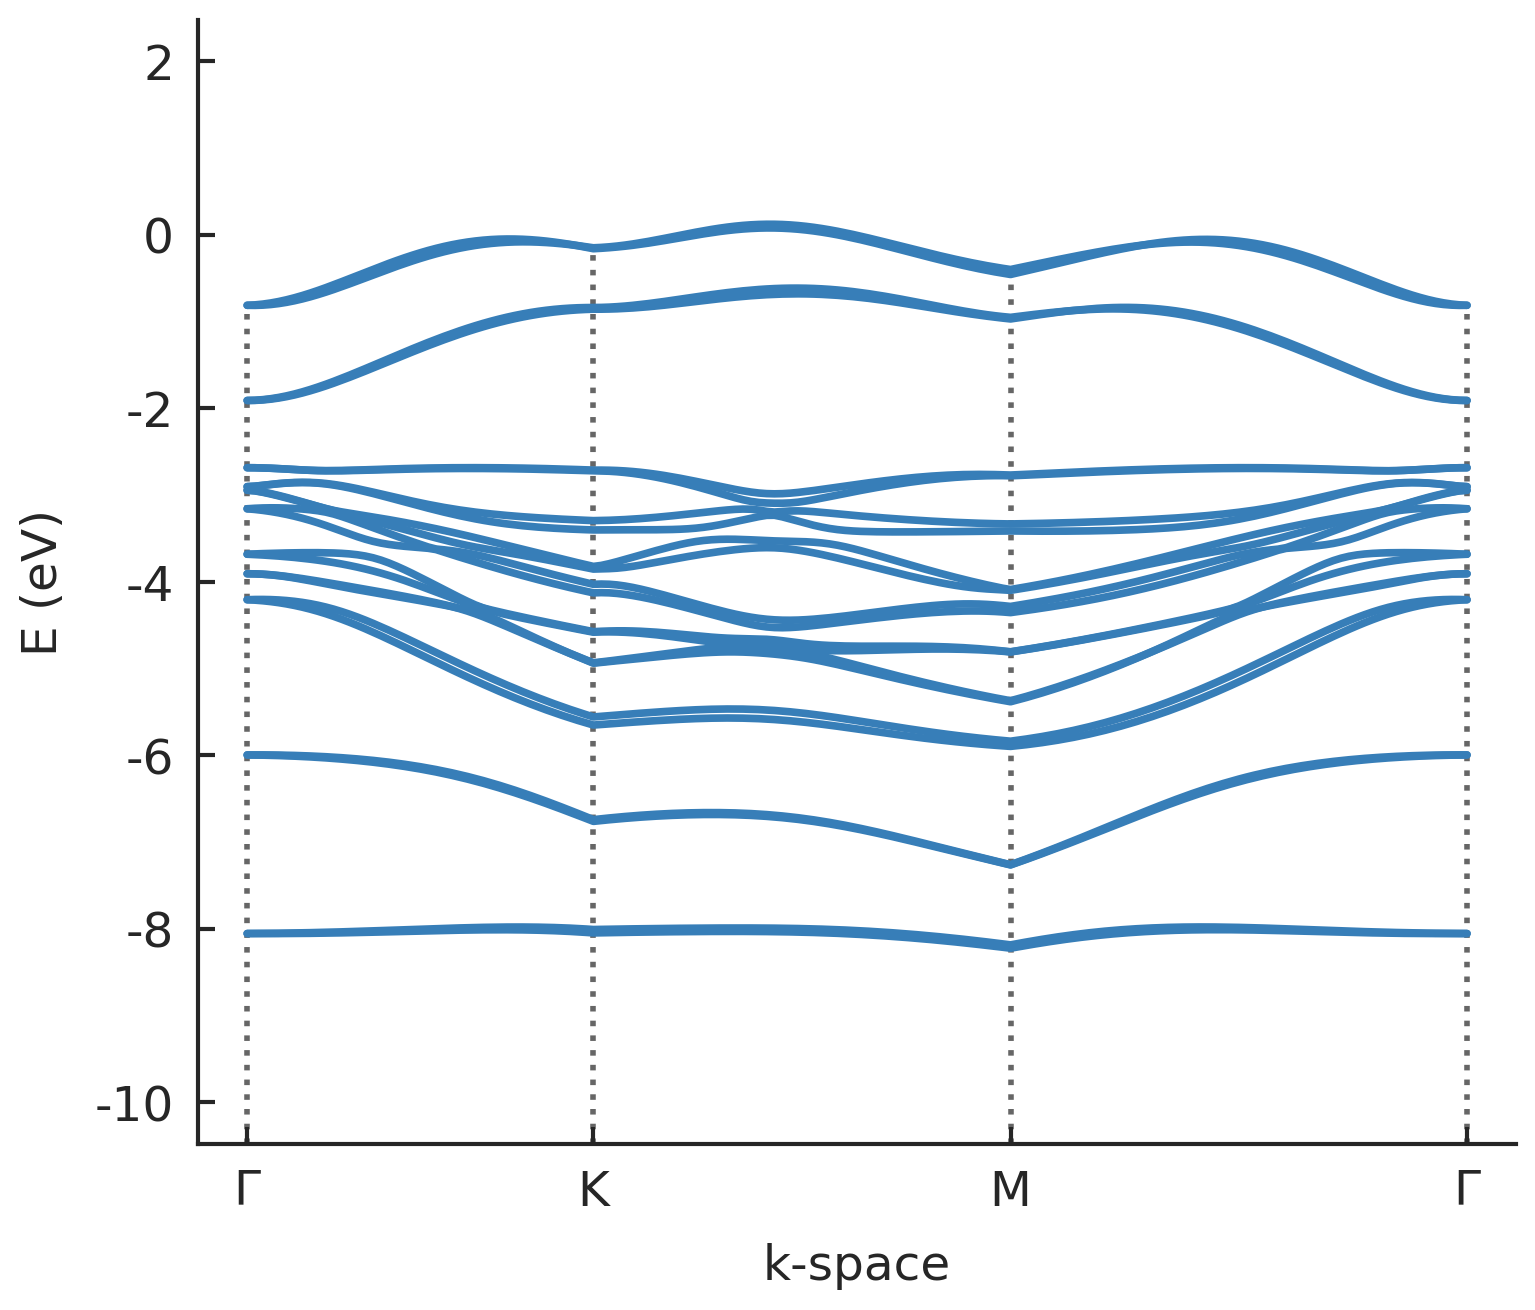
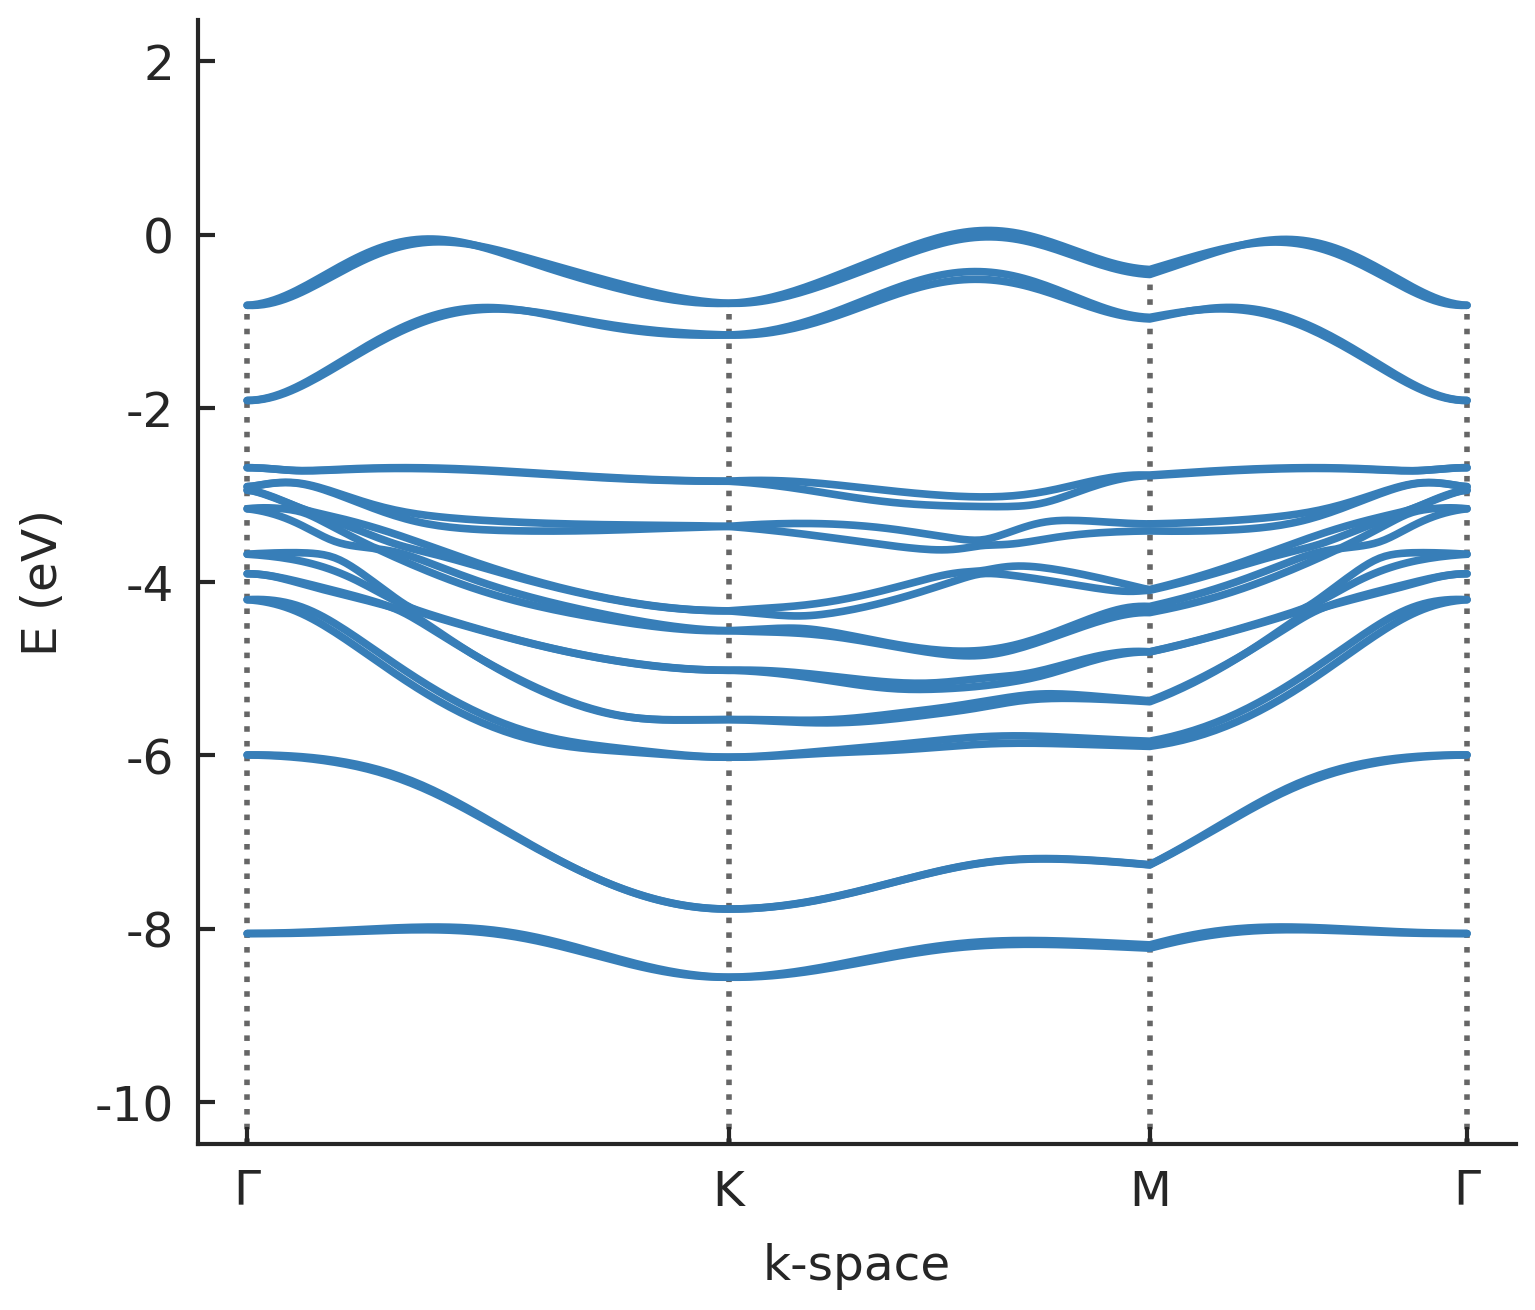
fix typo in example/InSe

diff --git a/example/InSe/plot_band.py b/example/InSe/plot_band.py
@@ -16,9 +16,9 @@ solver = pb.solver.lapack(model)
 rvec = np.array(lat.reciprocal_vectors())
 
 # construct high symmetry points.
-Gamma   = np.sum([0,0,0]*rvec,axis=0)
-K1      = np.sum([0,0.5,0]*rvec,axis=0)
-M       = np.sum([1/3.,1/3.,0]*rvec,axis=0)
+Gamma   = np.array([0,0,0])@rvec
+K1      = np.array([0,0.5,0])@rvec
+M       = np.array([1/3.,1/3.,0])@rvec
 
 # calculate bands
 bands = solver.calc_bands(Gamma, K1, M, Gamma,  step=0.01)
